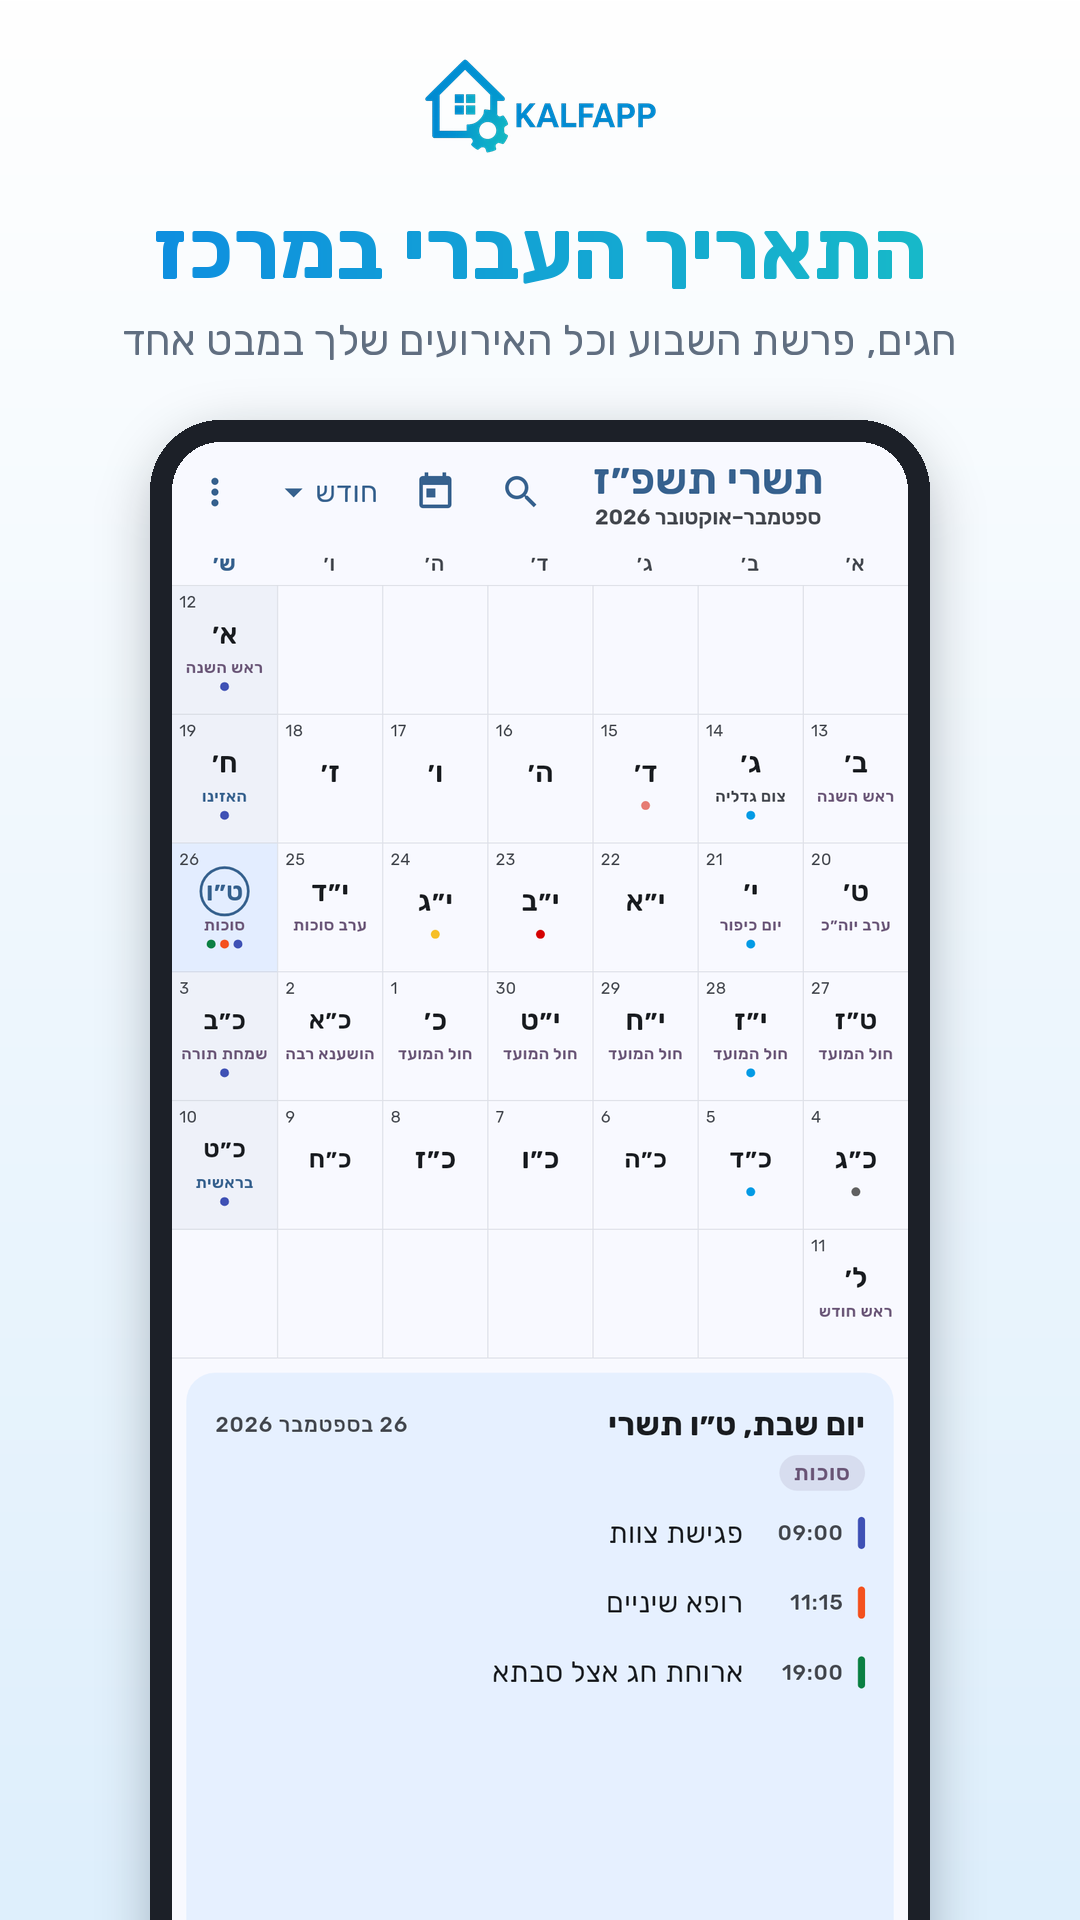
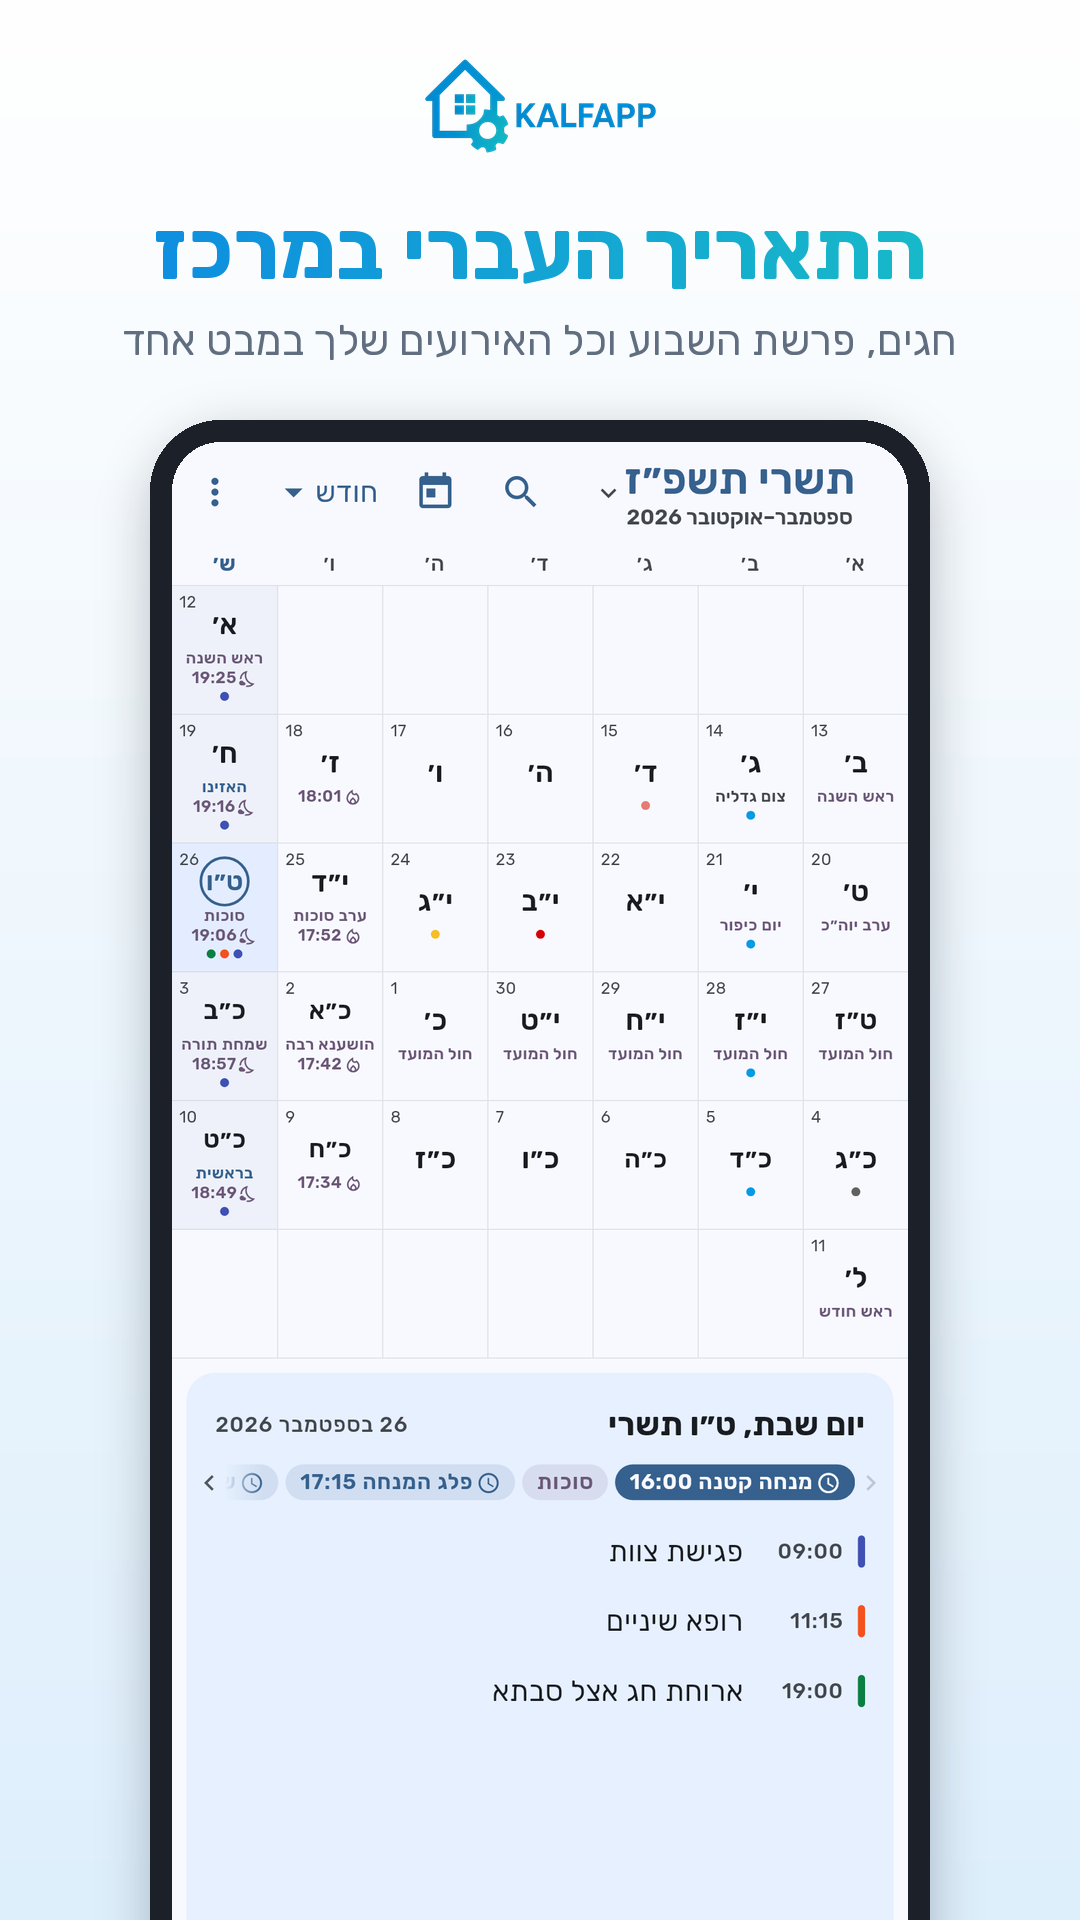
docs(store, site): new screenshots with daily halacha, significant dates, zmanim and settings
Claude-Session: https://claude.ai/code/session_017zUec374jeHgpuCg7de9BM

diff --git a/tool/screenshots/capture_store_screens_test.dart b/tool/screenshots/capture_store_screens_test.dart
@@ -31,13 +31,54 @@ import 'package:hebrew_calendar/features/event_editor/application/event_reposito
 import 'package:hebrew_calendar/features/notifications/application/reminder_providers.dart';
 import 'package:hebrew_calendar/features/settings/application/google_sync_providers.dart';
 import 'package:hebrew_calendar/features/settings/application/theme_mode_provider.dart';
+import 'package:hebrew_calendar/data/halacha/daily_halacha_source.dart';
+import 'package:hebrew_calendar/data/halacha/halacha_cloud.dart';
+import 'package:hebrew_calendar/domain/halacha/daily_halacha.dart';
+import 'package:hebrew_calendar/features/halacha/application/daily_halacha_providers.dart';
+import 'package:hebrew_calendar/features/settings/application/app_version_provider.dart';
 import 'package:hebrew_calendar/main.dart';
+import 'package:http/http.dart' as http;
+import 'package:http/testing.dart';
 import 'package:shared_preferences/shared_preferences.dart';
 
 import '../../test/test_support/fake_auth_repository.dart';
 import '../../test/test_support/fake_background_sync_scheduler.dart';
 import '../../test/test_support/fake_google_calendar_api.dart';
 import '../../test/test_support/fake_notification_scheduler.dart';
+
+/// M25: the daily halacha from the built files in site/halacha/ksa, a
+/// sample dedication and share, and no cloud writes.
+class _ShotHalachaCloud implements HalachaCloud {
+  @override
+  Future<String?> dedicationFor(DateTime day) async =>
+      'לרפואת כל חולי עמו ישראל';
+
+  @override
+  Future<double?> enabledShare() async => 0.45;
+
+  @override
+  Future<void> recordChoice({required bool? from, required bool to}) async {}
+
+  @override
+  Future<void> recordLearned(DateTime day) async {}
+}
+
+DailyHalachaSource _localHalacha() => DailyHalachaSource(
+  baseUrl: 'https://example.test/ksa',
+  client: MockClient(
+    (http.Request r) async => http.Response.bytes(
+      File('site/halacha/ksa/${r.url.pathSegments.last}').readAsBytesSync(),
+      200,
+    ),
+  ),
+);
+
+/// Preferences for every shot: the daily halacha already shown today, so
+/// it opens only in its own shot.
+Map<String, Object> _prefs() => <String, Object>{
+  'daily_halacha_mode_v1': 'on',
+  'daily_halacha_last_shown_v1': dedicationDayKey(DateTime.now()),
+};
 
 const Size _physical = Size(1080, 2400);
 const double _dpr = 2.625;
@@ -201,6 +242,9 @@ Future<ProviderContainer> _pumpApp(
           ),
           googleCalendarApiProvider.overrideWithValue(FakeGoogleCalendarApi()),
           syncSettingsStoreProvider.overrideWithValue(store),
+          appVersionProvider.overrideWith((Ref ref) async => '1.0.0'),
+          dailyHalachaSourceProvider.overrideWithValue(_localHalacha()),
+          halachaCloudProvider.overrideWithValue(_ShotHalachaCloud()),
           backgroundSyncSchedulerProvider.overrideWithValue(
             FakeBackgroundSyncScheduler(),
           ),
@@ -227,7 +271,7 @@ void main() {
     await _loadFonts();
   });
   // A fresh preferences store per screen, so dark mode doesn't carry over.
-  setUp(() => SharedPreferences.setMockInitialValues(<String, Object>{}));
+  setUp(() => SharedPreferences.setMockInitialValues(_prefs()));
 
   testWidgets('month', (WidgetTester tester) async {
     await _pumpApp(tester, mode: ThemeMode.light);
@@ -293,6 +337,65 @@ void main() {
     await tester.pumpAndSettle();
     await tester.tap(find.text('הגדרות'));
     await _shot(tester, '5_settings');
+  });
+
+  testWidgets('halacha', (WidgetTester tester) async {
+    SharedPreferences.setMockInitialValues(<String, Object>{
+      'daily_halacha_mode_v1': 'on',
+    });
+    await _pumpApp(tester, mode: ThemeMode.light);
+    await tester.runAsync(
+      () => Future<void>.delayed(const Duration(milliseconds: 300)),
+    );
+    await _shot(tester, '9_halacha');
+  });
+
+  testWidgets('significant', (WidgetTester tester) async {
+    await _pumpApp(tester, mode: ThemeMode.light);
+    await tester.tap(find.byType(FloatingActionButton));
+    await tester.pumpAndSettle();
+    await tester.tap(
+      find.byKey(const ValueKey<String>('add-menu-significant-date')),
+    );
+    await tester.pumpAndSettle();
+    await tester.enterText(
+      find.byKey(const ValueKey<String>('significant-name')),
+      'דוד',
+    );
+    Future<void> pick(String key, String text) async {
+      await tester.tap(find.byKey(ValueKey<String>(key)));
+      await tester.pumpAndSettle();
+      final Finder menu = find.byType(Scrollable).last;
+      final Finder item = find.descendant(of: menu, matching: find.text(text));
+      await tester.scrollUntilVisible(item, 200, scrollable: menu);
+      await tester.tap(item);
+      await tester.pumpAndSettle();
+    }
+
+    await pick('significant-day', '15');
+    await pick('significant-month', 'מרץ');
+    await pick('significant-year', '1985');
+    await tester.tap(find.text('אחרי השקיעה'));
+    await tester.testTextInput.receiveAction(TextInputAction.done);
+    await _shot(tester, '10_significant');
+  });
+
+  testWidgets('day zmanim', (WidgetTester tester) async {
+    final ProviderContainer c = await _pumpApp(tester, mode: ThemeMode.light);
+    c.read(calendarViewProvider.notifier).setViewType(CalendarViewType.day);
+    await tester.pumpAndSettle();
+    await tester.tap(find.byType(ExpansionTile).first);
+    await _shot(tester, '11_day');
+  });
+
+  testWidgets('settings halacha', (WidgetTester tester) async {
+    await _pumpApp(tester, mode: ThemeMode.light);
+    await tester.tap(find.byIcon(Icons.more_vert));
+    await tester.pumpAndSettle();
+    await tester.tap(find.text('הגדרות'));
+    await tester.pumpAndSettle();
+    await tester.drag(find.byType(ListView).first, const Offset(0, -1200));
+    await _shot(tester, '12_settings_more');
   });
 
   testWidgets('about', (WidgetTester tester) async {

diff --git a/site/index.html b/site/index.html
@@ -5,7 +5,7 @@
 <meta name="viewport" content="width=device-width,initial-scale=1">
 <link rel="preconnect" href="https://fonts.googleapis.com">
 <link rel="stylesheet" href="https://fonts.googleapis.com/css2?family=Rubik:wght@400;600;700&display=swap">
-<link rel="stylesheet" href="style.css">
+<link rel="stylesheet" href="style.css?v=4">
 <link rel="icon" href="assets/icon.png">
 <title>לוח עברי</title>
 <meta name="description" content="לוח עברי: יומן לאנדרואיד שבו התאריך העברי במרכז. חגים, פרשת השבוע, זמני היום, הלכה יומית, אירועים שחוזרים לפי התאריך העברי וסנכרון עם Google Calendar.">
@@ -21,8 +21,8 @@
   </section>
   <div class="shots">
     <img src="assets/shot1.png" alt="תצוגת חודש עם חגים ופרשת השבוע">
-    <img src="assets/shot2.png" alt="אירוע שחוזר לפי התאריך העברי">
-    <img src="assets/shot3.png" alt="סנכרון עם Google Calendar">
+    <img src="assets/shot2.png" alt="ההלכה היומית מקיצור שולחן ערוך">
+    <img src="assets/shot3.png" alt="תאריך משמעותי: מתאריך לועזי לתאריך עברי">
   </div>
   <p>לוח עברי נועד למי שחי לפי התאריך העברי. יום הולדת עברי, אזכרה או יום נישואין קובעים פעם אחת, והאירוע יופיע במקום הנכון בכל שנה, גם בשנה מעוברת. בלי חישובים ובלי לחפש בלוח שנה מודפס.</p>
   <div class="grid">

diff --git a/tool/brand/make_store_screenshots.py b/tool/brand/make_store_screenshots.py
@@ -30,16 +30,20 @@ GRAD_TO = (24, 185, 201)
 SHOTS = [
     ("1_month", "התאריך העברי במרכז",
      "חגים, פרשת השבוע וכל האירועים שלך במבט אחד", False),
+    ("9_halacha", "הלכה יומית",
+     "בכל יום הלכה מקיצור שולחן ערוך, מסיימים בשנה", False),
     ("3_editor", "חוזר לפי התאריך העברי",
      "ימי הולדת ואזכרות במקום הנכון בכל שנה, גם בשנה מעוברת", False),
+    ("10_significant", "תאריך משמעותי",
+     "מתאריך לועזי לאירוע שנתי עברי, כולל לפני או אחרי השקיעה", False),
+    ("11_day", "זמני היום ושבת",
+     "זריחה, סוף זמן קריאת שמע, שקיעה והדלקת נרות לפי העיר", False),
     ("2_week", "כל הפגישות של השבוע",
      "תצוגת שבוע ויום, עם צבע לכל אירוע", False),
-    ("5_settings", "מסתנכרן עם Google Calendar",
-     "בשני הכיוונים, עם גיבוי ושחזור בלחיצה", False),
+    ("12_settings_more", "הכל מותאם לך",
+     "עיר ומנהג, הלכה יומית, גיבוי ושחזור", False),
     ("6_month_dark", "נוח לעיניים גם בלילה",
      "מצב כהה בלחיצה אחת בהגדרות", True),
-    ("7_about", "אפליקציה קטנה, מכל הלב",
-     "חלק ממשפחת האפליקציות של KALFAPP", False),
 ]
 
 

diff --git a/docs/PROGRESS.md b/docs/PROGRESS.md
@@ -5,6 +5,10 @@
 (שיתוף והעשרה) נדחה בהחלטת משתמש — ראה WISHLIST.md. (ראה אבני דרך
 ב-ARCHITECTURE.md §9)
 
+## 2026-10-15 — אתר, דף החנות וצילומי מסך מעודכנים
+
+- `site/index.html`, `site/privacy.html` (הלכה יומית, מונים אנונימיים), תיאור החנות בעברית ובאנגלית. 8 צילומי חנות חדשים (`tool/brand/make_store_screenshots.py`): חודש, הלכה יומית, חזרה עברית, תאריך משמעותי, זמני היום, שבוע, הגדרות, מצב כהה. שלושה מהם גם באתר.
+
 ## 2026-10-15 — כפתור הוספה כתום (סקיצות 39–42, אושר)
 
 - `AppTheme.addButtonColor` (`#E8833A`) ב-`floatingActionButtonTheme`, בשני המצבים.
